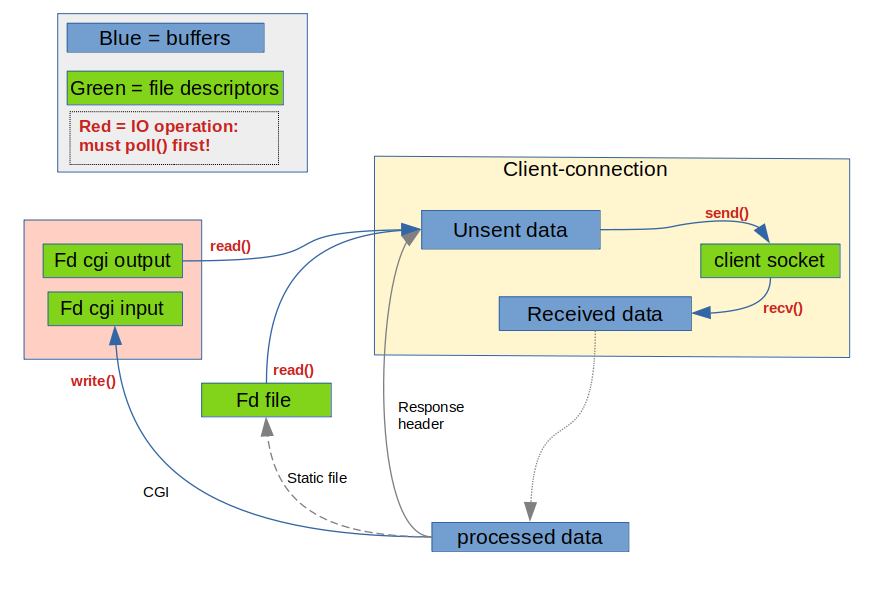
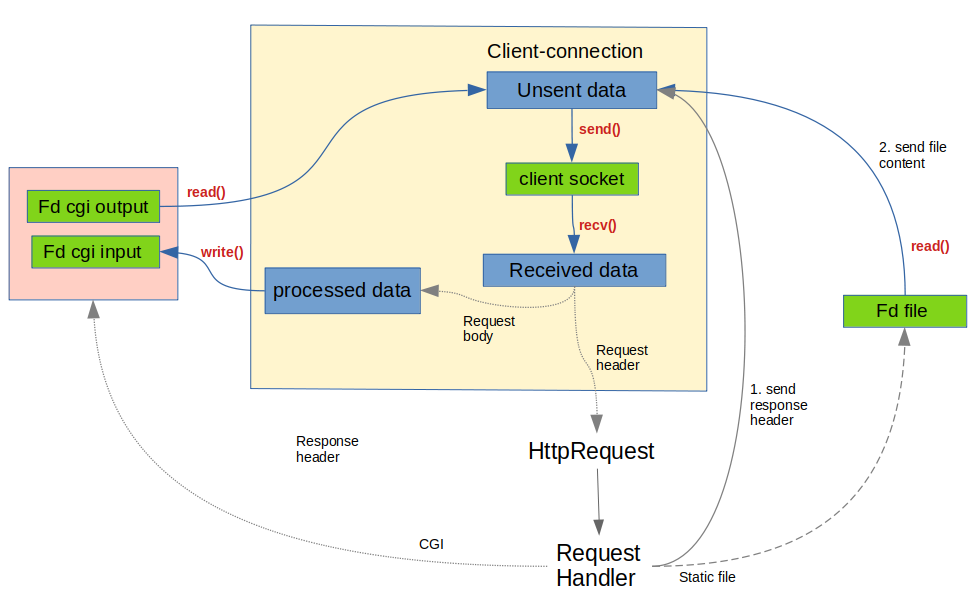
update readme

diff --git a/README.md b/README.md
@@ -8,5 +8,9 @@ Not much error checking/handling. Http response headers very incomplete.
 <br>
 <br>
 <br>
+### What is does:
 ![img](web_root/imgs/get_static.png)
+
+### What it shall do:
+![img](web_root/imgs/all.png)
 
